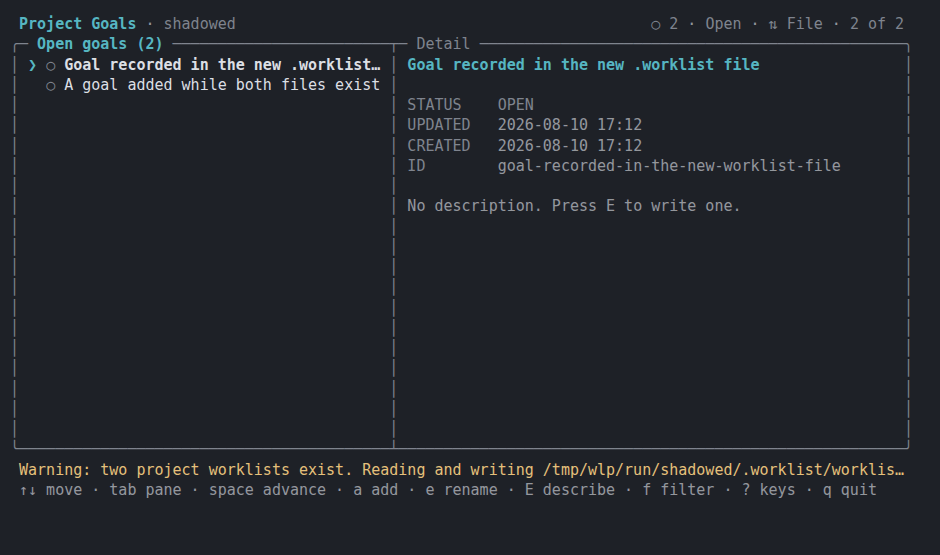
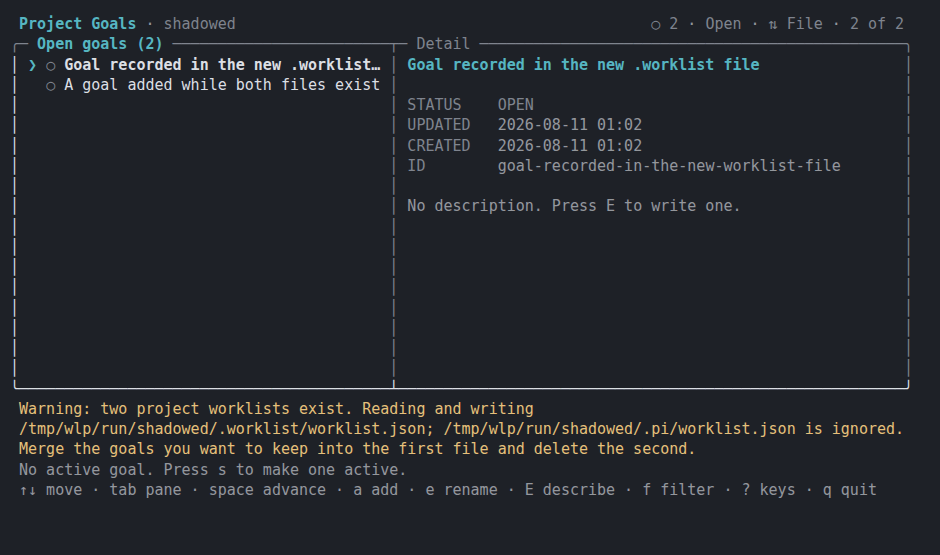
no-mistakes(review): reset session notice, keep board notice beside messages

diff --git a/.no-mistakes/evidence/feat/worklist-path/goal-board-shadowed-worklist-warning.html b/.no-mistakes/evidence/feat/worklist-path/goal-board-shadowed-worklist-warning.html
@@ -1,24 +1,24 @@
-<!doctype html><meta charset='utf-8'><style>html,body{margin:0;background:#1e2127}pre{margin:0;padding:14px 10px;color:#dcdfe4;background:#1e2127;font:15px/1.35 'DejaVu Sans Mono','Menlo',monospace;white-space:pre}</style><pre> <span style="color:#56b6c2"></span><span style="color:#56b6c2;font-weight:700">Project Goals</span><span style="color:#56b6c2"></span> <span style="opacity:.62">·</span> <span style="color:#7f848e">shadowed</span>                                              <span style="color:#7f848e">○ 2</span><span style="opacity:.62"> · </span><span style="color:#7f848e">Open</span> <span style="opacity:.62">·</span> <span style="color:#7f848e">⇅ File</span> <span style="opacity:.62">·</span> <span style="color:#7f848e">2 of 2</span> 
-<span style="color:#7f848e">╭</span><span style="color:#7f848e">─</span><span style="color:#56b6c2"></span><span style="color:#56b6c2;font-weight:700"> Open goals (2) </span><span style="color:#56b6c2"></span><span style="color:#7f848e">────────────────────────</span><span style="color:#7f848e">┬</span><span style="color:#7f848e">─</span><span style="color:#7f848e"> Detail </span><span style="color:#7f848e">───────────────────────────────────────────────</span><span style="color:#7f848e">╮</span>
-<span style="color:#7f848e">│</span> <span style="color:#56b6c2">❯</span> <span style="color:#7f848e">○</span> <span style="font-weight:700">Goal recorded in the new .worklist…</span> <span style="color:#7f848e">│</span> <span style="color:#56b6c2"></span><span style="color:#56b6c2;font-weight:700">Goal recorded in the new .worklist file</span><span style="color:#56b6c2"></span>                <span style="color:#7f848e">│</span>
-<span style="color:#7f848e">│</span>   <span style="color:#7f848e">○</span> A goal added while both files exist <span style="color:#7f848e">│</span>                                                        <span style="color:#7f848e">│</span>
-<span style="color:#7f848e">│</span>                                         <span style="color:#7f848e">│</span> <span style="color:#7f848e">STATUS    </span><span style="color:#7f848e">OPEN</span>                                         <span style="color:#7f848e">│</span>
-<span style="color:#7f848e">│</span>                                         <span style="color:#7f848e">│</span> <span style="color:#7f848e">UPDATED   </span><span style="opacity:.62">2026-08-10 17:12</span>                             <span style="color:#7f848e">│</span>
-<span style="color:#7f848e">│</span>                                         <span style="color:#7f848e">│</span> <span style="color:#7f848e">CREATED   </span><span style="opacity:.62">2026-08-10 17:12</span>                             <span style="color:#7f848e">│</span>
-<span style="color:#7f848e">│</span>                                         <span style="color:#7f848e">│</span> <span style="color:#7f848e">ID        </span><span style="opacity:.62">goal-recorded-in-the-new-worklist-file</span>       <span style="color:#7f848e">│</span>
-<span style="color:#7f848e">│</span>                                         <span style="color:#7f848e">│</span>                                                        <span style="color:#7f848e">│</span>
-<span style="color:#7f848e">│</span>                                         <span style="color:#7f848e">│</span> <span style="opacity:.62">No description. Press E to write one.</span>                  <span style="color:#7f848e">│</span>
-<span style="color:#7f848e">│</span>                                         <span style="color:#7f848e">│</span>                                                        <span style="color:#7f848e">│</span>
-<span style="color:#7f848e">│</span>                                         <span style="color:#7f848e">│</span>                                                        <span style="color:#7f848e">│</span>
-<span style="color:#7f848e">│</span>                                         <span style="color:#7f848e">│</span>                                                        <span style="color:#7f848e">│</span>
-<span style="color:#7f848e">│</span>                                         <span style="color:#7f848e">│</span>                                                        <span style="color:#7f848e">│</span>
-<span style="color:#7f848e">│</span>                                         <span style="color:#7f848e">│</span>                                                        <span style="color:#7f848e">│</span>
-<span style="color:#7f848e">│</span>                                         <span style="color:#7f848e">│</span>                                                        <span style="color:#7f848e">│</span>
-<span style="color:#7f848e">│</span>                                         <span style="color:#7f848e">│</span>                                                        <span style="color:#7f848e">│</span>
-<span style="color:#7f848e">│</span>                                         <span style="color:#7f848e">│</span>                                                        <span style="color:#7f848e">│</span>
-<span style="color:#7f848e">│</span>                                         <span style="color:#7f848e">│</span>                                                        <span style="color:#7f848e">│</span>
-<span style="color:#7f848e">│</span>                                         <span style="color:#7f848e">│</span>                                                        <span style="color:#7f848e">│</span>
-<span style="color:#7f848e">│</span>                                         <span style="color:#7f848e">│</span>                                                        <span style="color:#7f848e">│</span>
-<span style="color:#7f848e">╰</span><span style="color:#7f848e">─</span><span style="color:#7f848e">────────────────────────────────────────</span><span style="color:#7f848e">┴</span><span style="color:#7f848e">─</span><span style="color:#7f848e">───────────────────────────────────────────────────────</span><span style="color:#7f848e">╯</span>
- <span style="color:#e5c07b">Warning: two project worklists exist. Reading and writing /tmp/wlp/run/shadowed/.worklist/worklis…</span> 
+<!doctype html><meta charset='utf-8'><style>html,body{margin:0;background:#1e2127}pre{margin:0;padding:14px 10px;color:#dcdfe4;background:#1e2127;font:15px/1.35 'DejaVu Sans Mono','Menlo',monospace;white-space:pre}</style><pre> <span style="color:#56b6c2;font-weight:700">Project Goals</span> <span style="opacity:.62">·</span> <span style="color:#7f848e">shadowed</span>                                              <span style="color:#7f848e">○ 2</span><span style="opacity:.62"> · </span><span style="color:#7f848e">Open</span> <span style="opacity:.62">·</span> <span style="color:#7f848e">⇅ File</span> <span style="opacity:.62">·</span> <span style="color:#7f848e">2 of 2</span> 
+<span style="color:#7f848e">╭─</span><span style="color:#56b6c2;font-weight:700"> Open goals (2) </span><span style="color:#7f848e">────────────────────────┬─ Detail ───────────────────────────────────────────────╮</span>
+│ <span style="color:#56b6c2">❯</span> <span style="color:#7f848e">○</span> <span style="font-weight:700">Goal recorded in the new .worklist…</span> <span style="color:#7f848e">│</span> <span style="color:#56b6c2;font-weight:700">Goal recorded in the new .worklist file</span>                <span style="color:#7f848e">│</span>
+│   <span style="color:#7f848e">○</span> A goal added while both files exist <span style="color:#7f848e">│</span>                                                        <span style="color:#7f848e">│</span>
+│                                         <span style="color:#7f848e">│</span> <span style="color:#7f848e">STATUS    OPEN</span>                                         <span style="color:#7f848e">│</span>
+│                                         <span style="color:#7f848e">│</span> <span style="color:#7f848e">UPDATED   </span><span style="opacity:.62">2026-08-11 01:02</span>                             <span style="color:#7f848e">│</span>
+│                                         <span style="color:#7f848e">│</span> <span style="color:#7f848e">CREATED   </span><span style="opacity:.62">2026-08-11 01:02</span>                             <span style="color:#7f848e">│</span>
+│                                         <span style="color:#7f848e">│</span> <span style="color:#7f848e">ID        </span><span style="opacity:.62">goal-recorded-in-the-new-worklist-file</span>       <span style="color:#7f848e">│</span>
+│                                         <span style="color:#7f848e">│</span>                                                        <span style="color:#7f848e">│</span>
+│                                         <span style="color:#7f848e">│</span> <span style="opacity:.62">No description. Press E to write one.</span>                  <span style="color:#7f848e">│</span>
+│                                         <span style="color:#7f848e">│</span>                                                        <span style="color:#7f848e">│</span>
+│                                         <span style="color:#7f848e">│</span>                                                        <span style="color:#7f848e">│</span>
+│                                         <span style="color:#7f848e">│</span>                                                        <span style="color:#7f848e">│</span>
+│                                         <span style="color:#7f848e">│</span>                                                        <span style="color:#7f848e">│</span>
+│                                         <span style="color:#7f848e">│</span>                                                        <span style="color:#7f848e">│</span>
+│                                         <span style="color:#7f848e">│</span>                                                        <span style="color:#7f848e">│</span>
+│                                         <span style="color:#7f848e">│</span>                                                        <span style="color:#7f848e">│</span>
+│                                         <span style="color:#7f848e">│</span>                                                        <span style="color:#7f848e">│</span>
+╰─────────────────────────────────────────┴────────────────────────────────────────────────────────╯
+ <span style="color:#e5c07b">Warning: two project worklists exist. Reading and writing</span>                                          
+ <span style="color:#e5c07b">/tmp/wlp/run/shadowed/.worklist/worklist.json; /tmp/wlp/run/shadowed/.pi/worklist.json is ignored.</span> 
+ <span style="color:#e5c07b">Merge the goals you want to keep into the first file and delete the second.</span>                        
+ <span style="opacity:.62">No active goal. Press s to make one active.</span>                                                        
  <span style="opacity:.62">↑↓ move · tab pane · space advance · a add · e rename · E describe · f filter · ? keys · q quit</span>    </pre>

diff --git a/src/tui/goal-board.ts b/src/tui/goal-board.ts
@@ -1158,60 +1158,85 @@ export class GoalBoard {
 	 * Rows the status area holds while the standing notice is up.
 	 *
 	 * Budgeted from the condition rather than from whatever is on the line this
-	 * frame. The notice takes several rows and a transient message takes one, so
-	 * measuring the rendered content instead would reflow the list and detail
-	 * panes on the keystroke that raises a message and again on the one that
-	 * clears it.
+	 * frame, so a passing message cannot reflow the list and detail panes on the
+	 * keystroke that raises it and again on the one that clears it. The notice
+	 * gets rows of its own above the status line rather than sharing it, which is
+	 * what lets a message take that line without wiping the warning off a screen
+	 * that has no scrollback to recover it. A frame with nothing to spare falls
+	 * back to one row, and there the notice shares the line as it used to.
 	 */
 	private reservedStatusRows(width: number, rows: number): number {
 		if (this.notice === undefined) return 1;
-		const spare = rows - 1 - BODY_MIN_ROWS - 1;
-		const budget = Math.max(1, Math.min(NOTICE_MAX_ROWS, spare));
-		return wrapToLines(this.notice, Math.max(1, width - 2), budget).length;
+		const spare = rows - 1 - BODY_MIN_ROWS - 1 - 1;
+		if (spare < 1) return 1;
+		const budget = Math.min(NOTICE_MAX_ROWS, spare);
+		return wrapToLines(this.notice, Math.max(1, width - 2), budget).length + 1;
 	}
 
-	/** The prompt lines, which also carry the cursor column when input is open. */
-	private renderStatus(width: number, noticeRows: number): { lines: string[]; cursorColumn?: number } {
+	/**
+	 * The whole status block: the standing notice, and whatever needs the line.
+	 *
+	 * A message, a prompt, or a confirmation keeps the bottom row, so what the
+	 * board is asking or reporting stays where the eye already looks. The notice
+	 * takes the reserved rows above it rather than pushing it aside, because the
+	 * board owns the screen and a warning cleared by a passing message would have
+	 * nowhere to be read again.
+	 */
+	private renderStatus(width: number, statusRows: number): { lines: string[]; cursorColumn?: number } {
+		const noticeRows = statusRows - 1;
+		const line = this.renderStatusLine(width, noticeRows < 1);
+		return {
+			lines: [...this.renderNoticeRows(width, noticeRows), line.line],
+			...(line.cursorColumn === undefined ? {} : { cursorColumn: line.cursorColumn }),
+		};
+	}
+
+	/**
+	 * The standing notice, wrapped into the rows it was given.
+	 *
+	 * It wraps rather than being cut at the first line, because the two things it
+	 * exists to convey - which file is being ignored, and that the fix is to merge
+	 * by hand and delete - both sit past one line's worth of an absolute path.
+	 */
+	private renderNoticeRows(width: number, rows: number): string[] {
+		if (this.notice === undefined || rows <= 0) return [];
+		const { warning } = this.palette;
+		return wrapToLines(this.notice, Math.max(1, width - 2), rows).map((line) => ` ${warning(line)}`);
+	}
+
+	/**
+	 * The bottom row of the status block.
+	 *
+	 * Carries the cursor column when input is open, which is why it stays the last
+	 * row of the block. `mayHoldNotice` is set only on a frame too short to give
+	 * the notice a row of its own, where it falls back to taking this one.
+	 */
+	private renderStatusLine(width: number, mayHoldNotice: boolean): { line: string; cursorColumn?: number } {
 		const { accent, muted, dim, success, danger, warning, bold } = this.palette;
 		const inner = Math.max(1, width - 2);
 		if (this.mode.kind === "prompt") {
-			const input = this.renderInputLine(`${this.mode.prompt.label}: `, this.mode.prompt, width, accent);
-			return {
-				lines: [input.line],
-				...(input.cursorColumn === undefined ? {} : { cursorColumn: input.cursorColumn }),
-			};
+			return this.renderInputLine(`${this.mode.prompt.label}: `, this.mode.prompt, width, accent);
 		}
 		if (this.mode.kind === "search") {
-			const input = this.renderInputLine("/", this.mode.search, width, accent);
-			return {
-				lines: [input.line],
-				...(input.cursorColumn === undefined ? {} : { cursorColumn: input.cursorColumn }),
-			};
+			return this.renderInputLine("/", this.mode.search, width, accent);
 		}
 		if (this.mode.kind === "confirm") {
 			const suffix = ` ${dim("[")}${bold("y")}${dim("/")}N${dim("]")}`;
 			const question = truncateToWidth(this.mode.confirm.question, Math.max(1, width - 8));
-			return { lines: [` ${warning(question)}${suffix}`] };
+			return { line: ` ${warning(question)}${suffix}` };
 		}
 		if (this.message) {
 			const style =
 				this.message.tone === "error" ? danger : this.message.tone === "success" ? success : muted;
-			return { lines: [` ${style(truncateToWidth(this.message.text, inner))}`] };
+			return { line: ` ${style(truncateToWidth(this.message.text, inner))}` };
 		}
-		// A standing condition outranks the idle summary: the summary describes the
-		// roadmap on screen, and the notice is the reason that roadmap may not be
-		// all of them.
-		//
-		// It also wraps rather than being cut at the first line, because the two
-		// things it exists to convey - which file is being ignored, and that the fix
-		// is to merge by hand and delete - both sit past one line's worth of an
-		// absolute path. The goal rows still come first: the notice only takes the
-		// rows the frame can spare, and falls back to one truncated line when there
-		// are none.
-		if (this.notice !== undefined) {
-			return { lines: wrapToLines(this.notice, inner, noticeRows).map((line) => ` ${warning(line)}`) };
+		// With no row of its own, a standing condition outranks the idle summary: the
+		// summary describes the roadmap on screen, and the notice is the reason that
+		// roadmap may not be all of them.
+		if (mayHoldNotice && this.notice !== undefined) {
+			return { line: ` ${warning(truncateToWidth(this.notice, inner))}` };
 		}
-		return { lines: [` ${dim(truncateToWidth(this.idleSummary(), inner))}`] };
+		return { line: ` ${dim(truncateToWidth(this.idleSummary(), inner))}` };
 	}
 
 	/**

diff --git a/test/goal-board.test.ts b/test/goal-board.test.ts
@@ -216,7 +216,7 @@ describe("goal board presentation", () => {
 		expect(statusLine([])).toBe("No project goals yet. Press a to add one.");
 	});
 
-	it("holds a standing notice on the status line, which the alternate screen would otherwise swallow", () => {
+	it("holds a standing notice above the status line, which the alternate screen would otherwise swallow", () => {
 		const notice = "Warning: two project worklists exist. /repo/.pi/worklist.json is ignored.";
 		const board = new GoalBoard({
 			palette: createPalette(false),
@@ -226,16 +226,21 @@ describe("goal board presentation", () => {
 			now: () => NOW,
 		});
 		const statusLine = () => plainFrame(board, 120, 20).at(-2)?.trim();
+		const noticeRow = () => plainFrame(board, 120, 20).at(-3)?.trim();
 
-		// It outranks the idle summary, which describes only the roadmap on screen.
-		expect(statusLine()).toBe(notice);
+		// The notice gets a row of its own, so it does not have to displace the idle
+		// summary to be seen.
+		expect(noticeRow()).toBe(notice);
+		expect(statusLine()).toBe("Active: Replace legacy authentication");
 
 		// A message takes the line while it has something to say, and the standing
-		// condition comes back rather than being reported once and lost.
+		// condition stays put above it rather than being reported once and lost.
 		board.setMessage("Added goal.", "success");
 		expect(statusLine()).toBe("Added goal.");
+		expect(noticeRow()).toBe(notice);
 		press(board, "j");
-		expect(statusLine()).toBe(notice);
+		expect(statusLine()).toBe("Active: Replace legacy authentication");
+		expect(noticeRow()).toBe(notice);
 	});
 
 	it("wraps the real two-worklist warning so the ignored file and the fix survive 80 columns", () => {
@@ -292,28 +297,30 @@ describe("goal board presentation", () => {
 			now: () => NOW,
 		});
 
-		// The notice needs four rows here, so a status area budgeted per frame would
-		// hand three of them back to the panes the moment a message took the line.
+		// The notice holds rows of its own above the status line, so a status area
+		// budgeted per frame would hand them back the moment a message arrived.
 		const standing = plainFrame(board, 80, 20);
-		const noticeRows = standing.filter((line) =>
-			/Warning:|worklist\.json|Merge the goals|delete the second/.test(line),
-		);
-		expect(noticeRows).toHaveLength(4);
 		const goalRows = listedRows(board, 80, 20);
 		const detail = detailLines(board, 80, 20);
 		expect(goalRows.length).toBeGreaterThan(0);
 
 		board.setMessage("Added goal.", "success");
 		const withMessage = plainFrame(board, 80, 20);
-		expect(withMessage.at(-2)?.trim()).toBe("Added goal.");
 
-		// Same list, same detail, same geometry: the message replaced the notice on
-		// the bottom row and the rows it was using stayed reserved, blank.
+		// The message keeps the bottom row, and the whole notice keeps the rows above
+		// it rather than being wiped off a screen with no scrollback to recover it.
+		expect(withMessage.at(-2)?.trim()).toBe("Added goal.");
+		const shown = withMessage.join(" ").replace(/\s+/g, " ");
+		expect(shown).toContain(notice);
+		expect(shown).toContain(`${legacyPath} is ignored`);
+		expect(shown).toContain("Merge the goals you want to keep into the first file and delete the second.");
+
+		// Same list, same detail, same geometry: only the bottom row changed.
 		expect(listedRows(board, 80, 20)).toEqual(goalRows);
 		expect(detailLines(board, 80, 20)).toEqual(detail);
 		expect(withMessage).toHaveLength(standing.length);
-		expect(withMessage.slice(0, -5)).toEqual(standing.slice(0, -5));
-		expect(withMessage.slice(-5, -2).every((line) => line.trim() === "")).toBe(true);
+		expect(withMessage.slice(0, -2)).toEqual(standing.slice(0, -2));
+		expect(withMessage.every((line) => visibleWidth(line) <= 80)).toBe(true);
 	});
 
 	it("falls back to one truncated notice line on a terminal too short to wrap it", () => {

diff --git a/test/session-tool.test.ts b/test/session-tool.test.ts
@@ -809,6 +809,12 @@ describe("registered model tool", () => {
 		call: (params: Record<string, unknown>) => Promise<unknown>;
 		/** Everything the session has put in front of the user, newest last. */
 		notifications: string[];
+		/**
+		 * What pi does for `/new`, `/resume`, `/fork` and `/clone`: shut the session
+		 * down and start the next one on the same extension instance, which is
+		 * registered once per process rather than once per session.
+		 */
+		restart: (reason: "new" | "resume" | "fork") => Promise<void>;
 	}
 
 	/** A live session on a repository, left exactly as `session_start` leaves one. */
@@ -823,11 +829,15 @@ describe("registered model tool", () => {
 		} as unknown as ExtensionContext;
 		const sessionStart = handlers.get("session_start");
 		if (!sessionStart) throw new Error("session_start handler was not registered");
-		await sessionStart({}, sessionContext);
+		await sessionStart({ reason: "new" }, sessionContext);
 		const execute = tool.execute as ToolExecute;
 		return {
 			call: (params) => execute("call", params, undefined, undefined, sessionContext),
 			notifications,
+			restart: async (reason) => {
+				await handlers.get("session_shutdown")?.({}, sessionContext);
+				await sessionStart({ reason }, sessionContext);
+			},
 		};
 	}
 
@@ -926,6 +936,14 @@ describe("registered model tool", () => {
 		expect(
 			session.notifications.filter((message) => message.includes("two project worklists exist")),
 		).toHaveLength(1);
+
+		// The next session is told too. pi registers this extension once per process
+		// and reuses it across /new, /resume and /fork, so a session that inherited
+		// the previous one's dedupe would show one roadmap and never name the other.
+		await session.restart("new");
+		expect(
+			session.notifications.filter((message) => message.includes("two project worklists exist")),
+		).toHaveLength(2);
 	});
 
 	it("keeps model tool execution sequential so ordering mutations stay serialized", () => {

diff --git a/src/extension.ts b/src/extension.ts
@@ -142,7 +142,9 @@ export default function worklistExtension(pi: ExtensionAPI): void {
 	 * lands in. The notice is derived from the same resolution that chooses the
 	 * path, so it can never describe a file the session is not using, and it is
 	 * raised only when the condition newly appears, so a widget refresh on every
-	 * turn does not repeat it.
+	 * turn does not repeat it. What counts as newly appeared is scoped to one
+	 * session: pi reuses this extension across `/new`, `/resume`, `/fork` and
+	 * `/clone`, and every session has to be told which of two roadmaps it reads.
 	 */
 	function announceLocationNotice(ctx: ExtensionContext): void {
 		const notice = locateProject?.()?.notice;
@@ -441,6 +443,7 @@ export default function worklistExtension(pi: ExtensionAPI): void {
 		sessionStore.reconstruct(ctx);
 		const locate = createProjectLocator(ctx.cwd);
 		locateProject = locate;
+		announcedNotice = undefined;
 		applicationService.setProjectPathResolver(() => locate()?.path ?? null);
 		try {
 			await updateUi(ctx);

diff --git a/README.md b/README.md
@@ -323,9 +323,9 @@ Reordering is refused outside file order, where the rows are not where the file 
 Status and recent are views over that same order, which stays their tiebreak, so an arrangement survives a trip through them.
 Those two views lift the active goal above every other row and give it a marker of its own, so the work in flight is the first thing the list says.
 The status line names the active goal in full in every order, which keeps it readable while the list is filtered to something else or scrolled past it.
-When a repository holds two worklists, the warning about them replaces that summary for as long as the board is open, because the board owns the whole screen and a warning printed before it opened sits on a buffer nobody can see.
-It wraps on word boundaries across up to four rows, because the file being ignored and the merge that resolves it both sit past one line's worth of an absolute path.
-Those rows stay reserved while the condition holds, so a passing message does not shift the list and detail panes, and a terminal with no rows to spare falls back to a single truncated line.
+When a repository holds two worklists, the warning about them stands above that line for as long as the board is open, because the board owns the whole screen and a warning printed before it opened sits on a buffer nobody can see.
+It wraps on word boundaries across up to four rows of its own, because the file being ignored and the merge that resolves it both sit past one line's worth of an absolute path.
+Those rows stay reserved while the condition holds, so a passing message takes the status line without clearing the warning off the screen and without shifting the list and detail panes; a terminal with no rows to spare falls back to the warning taking that line itself, truncated.
 In the all view, done and archived rows recede so live work stays legible beside them, and a goal waiting on work that has not landed recedes in every view for the same reason; the selected row always keeps full contrast.
 A goal still in play that has gone untouched for 30 days or more carries its age at the right edge of its row when at least 12 cells remain for the title, and the detail pane spells that age out under `UPDATED`.
 Settled goals are never aged: a done or archived goal is finished rather than neglected.
